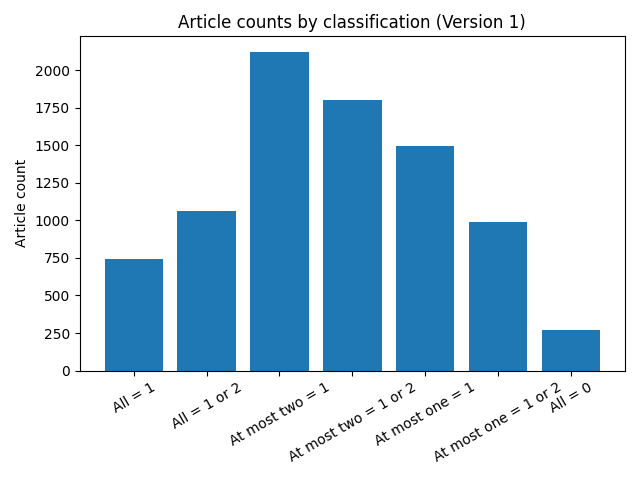
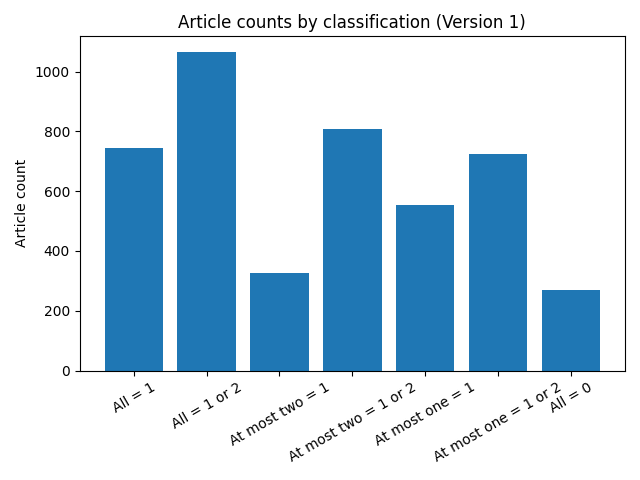
fixup queries

diff --git a/queries.py b/queries.py
@@ -38,14 +38,13 @@ QUERY_AT_MOST_TWO_AGREEMENT_SQL = """
     SELECT *
     FROM Article
     WHERE gemmaClassification IS NOT NULL
-      AND llamaClassification IS NOT NULL
-      AND phiClassification IS NOT NULL
-      AND (
-          (CASE WHEN gemmaClassification = 1 THEN 1 ELSE 0 END) +
-          (CASE WHEN llamaClassification = 1 THEN 1 ELSE 0 END) +
-          (CASE WHEN phiClassification = 1 THEN 1 ELSE 0 END)
-      ) <= 2
-      AND version = 1
+        AND llamaClassification IS NOT NULL
+        AND phiClassification IS NOT NULL
+        AND gemmaClassification IN (0, 1)
+        AND llamaClassification IN (0, 1)
+        AND phiClassification IN (0, 1)
+        AND gemmaClassification + llamaClassification + phiClassification = 2
+        AND version = 1
 """
 
 QUERY_AT_MOST_TWO_OR_AMBIGUOUS_SQL = """
@@ -54,11 +53,14 @@ QUERY_AT_MOST_TWO_OR_AMBIGUOUS_SQL = """
     WHERE gemmaClassification IS NOT NULL
       AND llamaClassification IS NOT NULL
       AND phiClassification IS NOT NULL
+      AND gemmaClassification IN (0, 1, 2)
+      AND llamaClassification IN (0, 1, 2)
+      AND phiClassification IN (0, 1, 2)
       AND (
           (CASE WHEN gemmaClassification IN (1, 2) THEN 1 ELSE 0 END) +
           (CASE WHEN llamaClassification IN (1, 2) THEN 1 ELSE 0 END) +
           (CASE WHEN phiClassification IN (1, 2) THEN 1 ELSE 0 END)
-      ) <= 2
+      ) = 2
       AND version = 1
 """
 
@@ -68,11 +70,14 @@ QUERY_AT_MOST_ONE_AGREEMENT_SQL = """
     WHERE gemmaClassification IS NOT NULL
       AND llamaClassification IS NOT NULL
       AND phiClassification IS NOT NULL
+      AND gemmaClassification IN (0, 1)
+      AND llamaClassification IN (0, 1)
+      AND phiClassification IN (0, 1)
       AND (
           (CASE WHEN gemmaClassification = 1 THEN 1 ELSE 0 END) +
           (CASE WHEN llamaClassification = 1 THEN 1 ELSE 0 END) +
           (CASE WHEN phiClassification = 1 THEN 1 ELSE 0 END)
-      ) <= 1
+      ) = 1
       AND version = 1
 """
 
@@ -82,11 +87,14 @@ QUERY_AT_MOST_ONE_OR_AMBIGUOUS_SQL = """
     WHERE gemmaClassification IS NOT NULL
       AND llamaClassification IS NOT NULL
       AND phiClassification IS NOT NULL
+      AND gemmaClassification IN (0, 1, 2)
+      AND llamaClassification IN (0, 1, 2)
+      AND phiClassification IN (0, 1, 2)
       AND (
           (CASE WHEN gemmaClassification IN (1, 2) THEN 1 ELSE 0 END) +
           (CASE WHEN llamaClassification IN (1, 2) THEN 1 ELSE 0 END) +
           (CASE WHEN phiClassification IN (1, 2) THEN 1 ELSE 0 END)
-      ) <= 1
+      ) = 1
       AND version = 1
 """
 
